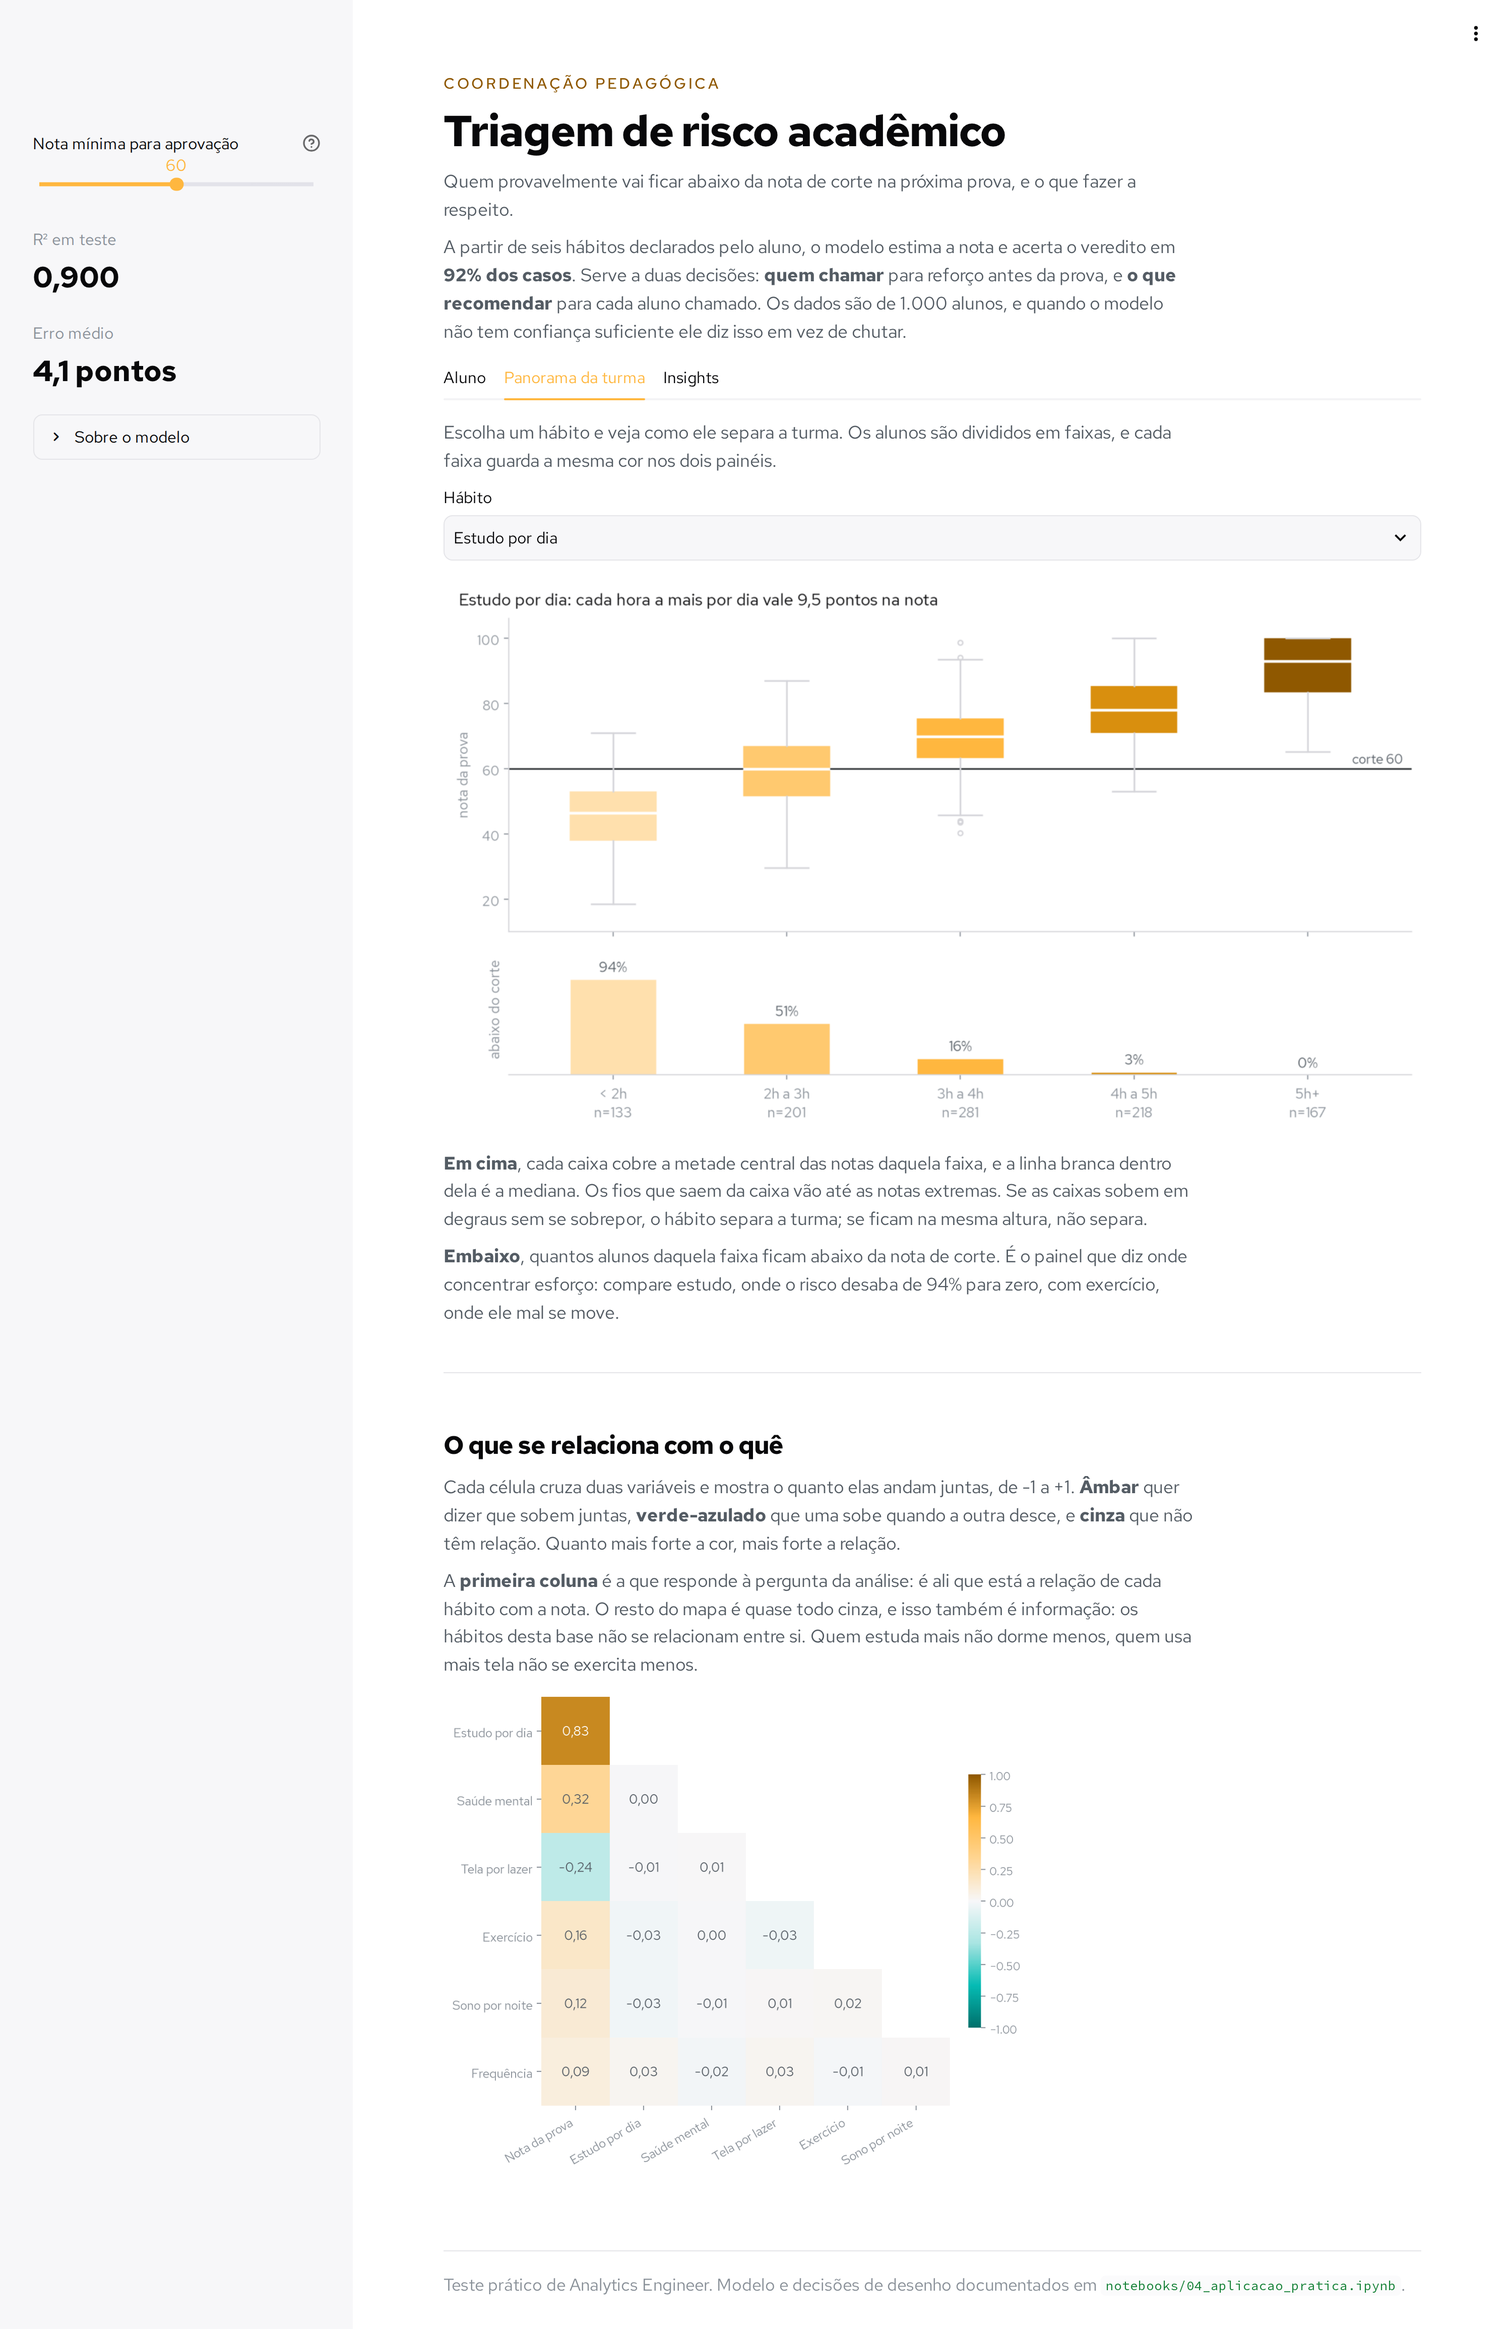
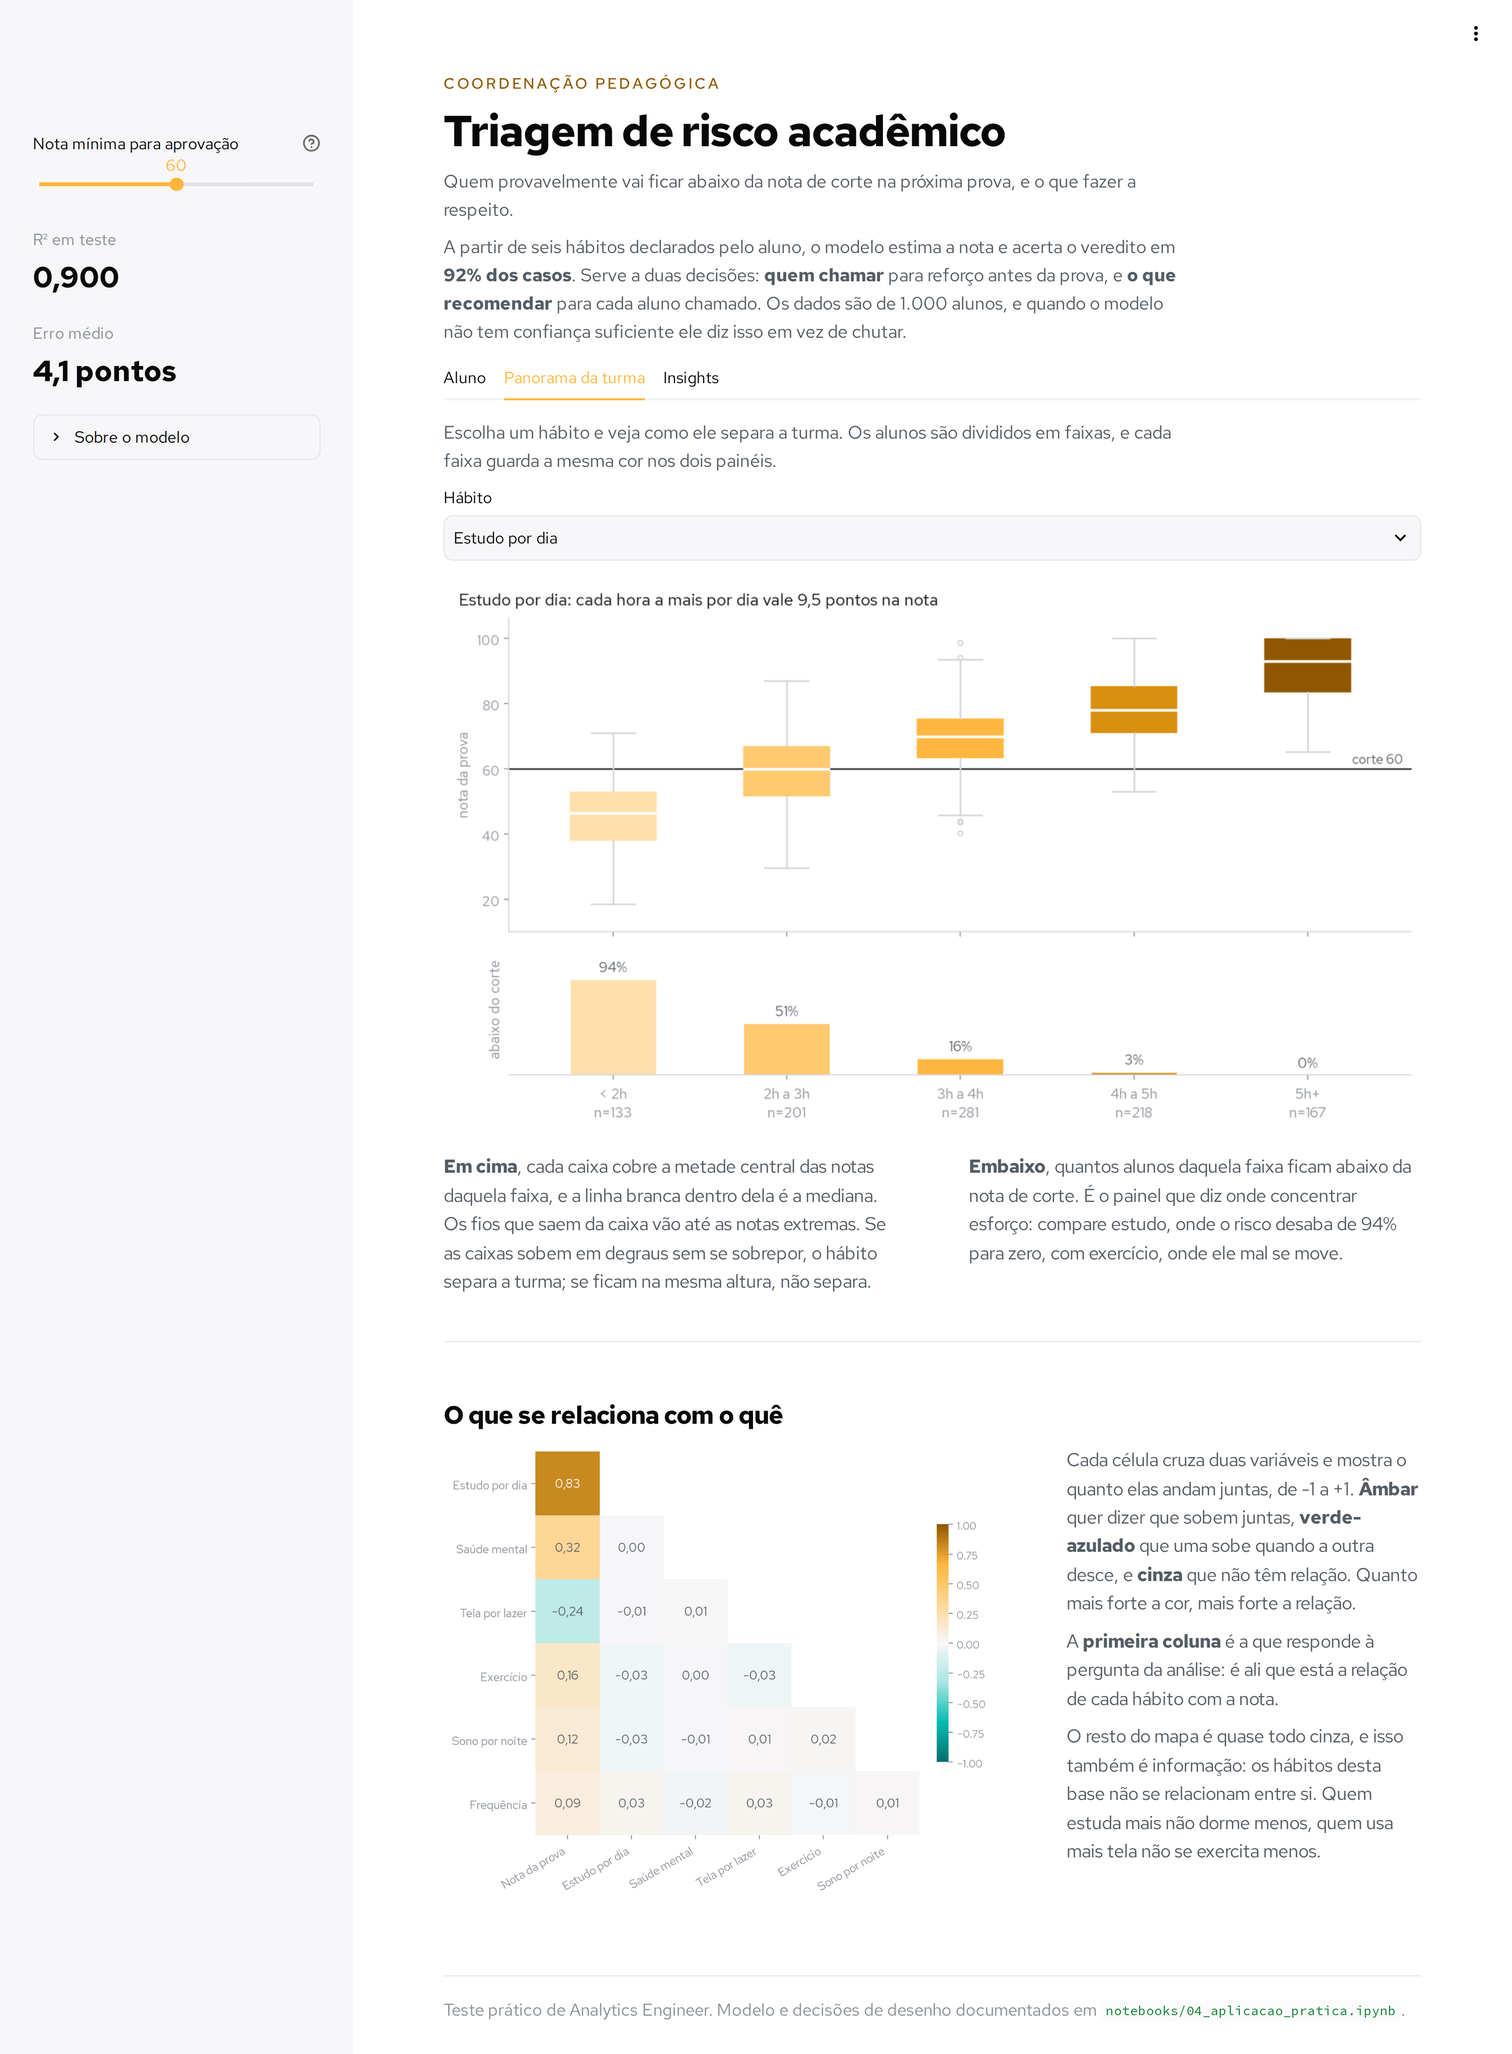
Alinha as legendas dos gráficos à largura da figura
O texto explicativo estava limitado a 62 caracteres de largura, herdado da
classe usada em texto corrido, enquanto os gráficos ocupavam a página
inteira. O resultado era um bloco encostado à esquerda com um vão à direita.

As legendas passam a usar uma classe própria, sem limite de medida, e as
que têm dois parágrafos vão em duas colunas: assim preenchem a mesma
largura da figura sem esticar a linha além do que é confortável de ler.

A legenda do mapa de calor foi para o lado dele, ocupando o espaço que já
sobrava, já que o mapa não estica até a página inteira de propósito.

diff --git a/app.py b/app.py
@@ -548,6 +548,13 @@ st.markdown(
       .linhafina {{ color: {COR["tinta_2"]}; font-size: 1.06rem; max-width: 62ch;
         margin: 0 0 .5rem 0; line-height: 1.55; }}
 
+      /* Legenda de gráfico não leva o limite de medida da linhafina: ela
+         acompanha a largura da figura, senão sobra um vão à direita. As mais
+         longas vão em duas colunas, para o texto continuar legível. */
+      .legenda {{ color: {COR["tinta_2"]}; font-size: 1.02rem; line-height: 1.55;
+        margin: .2rem 0 .4rem 0; }}
+      .legenda p {{ margin: 0 0 .5rem 0; }}
+
       /* Hábitos como lista de definição, e não como caixas de dashboard. */
       .habitos {{ display: grid; grid-template-columns: repeat(3, 1fr);
         gap: 1.6rem 2.6rem; margin: .6rem 0 .2rem 0; }}
@@ -704,22 +711,30 @@ def painel(habitos, nota_real=None):
             width="stretch",
         )
         st.markdown(
-            '<p class="linhafina" style="font-size:.97rem;">Cada barra cinza é um '
-            "grupo de alunos da base com aquela nota. A <strong>linha colorida</strong> "
-            "marca a previsão deste aluno e a <strong>faixa em volta</strong> é a "
-            "margem de erro do modelo, de ±%s pontos. A linha escura é o corte.</p>"
+            '<div class="legenda"><p>Cada barra cinza é um grupo de alunos da base '
+            "com aquela nota. A <strong>linha colorida</strong> marca a previsão "
+            "deste aluno e a <strong>faixa em volta</strong> é a margem de erro do "
+            "modelo, de ±%s pontos. A linha escura é o corte.</p></div>"
             % num(desvio),
             unsafe_allow_html=True,
         )
 
     st.markdown('<div class="secao">O que mudar primeiro</div>', unsafe_allow_html=True)
-    st.markdown(
-        '<p class="linhafina">Cada barra responde: <em>se só este hábito mudasse, '
-        "e todo o resto ficasse igual, quantos pontos a nota prevista subiria?</em> "
-        "A barra em âmbar é a mudança que rende mais. Mudanças que passariam do "
-        "máximo observado na base ficam de fora, para não sugerir o impossível.</p>",
-        unsafe_allow_html=True,
-    )
+    esq, dir_ = st.columns(2, gap="large")
+    with esq:
+        st.markdown(
+            '<div class="legenda"><p>Cada barra responde: <em>se só este hábito '
+            "mudasse, e todo o resto ficasse igual, quantos pontos a nota prevista "
+            "subiria?</em></p></div>",
+            unsafe_allow_html=True,
+        )
+    with dir_:
+        st.markdown(
+            '<div class="legenda"><p>A barra em âmbar é a mudança que rende mais. '
+            "Mudanças que passariam do máximo observado na base ficam de fora, para "
+            "não sugerir o impossível.</p></div>",
+            unsafe_allow_html=True,
+        )
 
     ganhos = calcular_alavancas(modelo, habitos, LIMITES)
     if ganhos.empty:
@@ -789,55 +804,70 @@ with aba_turma:
                           format_func=lambda c: ROTULOS[c][0])
     st.pyplot(grafico_habito(base, habito, corte), width="stretch")
 
-    st.markdown(
-        '<p class="linhafina"><strong>Em cima</strong>, cada caixa cobre a metade '
-        "central das notas daquela faixa, e a linha branca dentro dela é a mediana. "
-        "Os fios que saem da caixa vão até as notas extremas. Se as caixas sobem em "
-        "degraus sem se sobrepor, o hábito separa a turma; se ficam na mesma altura, "
-        "não separa.</p>"
-        '<p class="linhafina"><strong>Embaixo</strong>, quantos alunos daquela faixa '
-        "ficam abaixo da nota de corte. É o painel que diz onde concentrar esforço: "
-        "compare estudo, onde o risco desaba de 94% para zero, com exercício, onde "
-        "ele mal se move.</p>",
-        unsafe_allow_html=True,
-    )
+    esq, dir_ = st.columns(2, gap="large")
+    with esq:
+        st.markdown(
+            '<div class="legenda"><p><strong>Em cima</strong>, cada caixa cobre a '
+            "metade central das notas daquela faixa, e a linha branca dentro dela é "
+            "a mediana. Os fios que saem da caixa vão até as notas extremas. Se as "
+            "caixas sobem em degraus sem se sobrepor, o hábito separa a turma; se "
+            "ficam na mesma altura, não separa.</p></div>",
+            unsafe_allow_html=True,
+        )
+    with dir_:
+        st.markdown(
+            '<div class="legenda"><p><strong>Embaixo</strong>, quantos alunos daquela '
+            "faixa ficam abaixo da nota de corte. É o painel que diz onde concentrar "
+            "esforço: compare estudo, onde o risco desaba de 94% para zero, com "
+            "exercício, onde ele mal se move.</p></div>",
+            unsafe_allow_html=True,
+        )
 
     st.divider()
     st.markdown('<div class="secao">O que se relaciona com o quê</div>',
                 unsafe_allow_html=True)
-    st.markdown(
-        '<p class="linhafina">Cada célula cruza duas variáveis e mostra o quanto elas '
-        "andam juntas, de -1 a +1. <strong>Âmbar</strong> quer dizer que sobem juntas, "
-        "<strong>verde-azulado</strong> que uma sobe quando a outra desce, e "
-        "<strong>cinza</strong> que não têm relação. Quanto mais forte a cor, mais "
-        "forte a relação.</p>"
-        '<p class="linhafina">A <strong>primeira coluna</strong> é a que responde à '
-        "pergunta da análise: é ali que está a relação de cada hábito com a nota. "
-        "O resto do mapa é quase todo cinza, e isso também é informação: os hábitos "
-        "desta base não se relacionam entre si. Quem estuda mais não dorme menos, "
-        "quem usa mais tela não se exercita menos.</p>",
-        unsafe_allow_html=True,
-    )
-    # Coluna mais estreita que a página: esticado, o mapa vira um tabuleiro de
-    # células enormes sem ganhar nenhuma legibilidade.
-    col_mapa, _ = st.columns([1.55, 1])
+    # O mapa não estica até a página inteira, senão vira um tabuleiro de células
+    # enormes sem ganhar legibilidade. A legenda ocupa o espaço que sobra ao lado.
+    col_mapa, col_texto = st.columns([1.5, 1], gap="large")
     with col_mapa:
         st.pyplot(grafico_correlacao(base), width="stretch")
+    with col_texto:
+        st.markdown(
+            '<div class="legenda"><p>Cada célula cruza duas variáveis e mostra o '
+            "quanto elas andam juntas, de -1 a +1. <strong>Âmbar</strong> quer dizer "
+            "que sobem juntas, <strong>verde-azulado</strong> que uma sobe quando a "
+            "outra desce, e <strong>cinza</strong> que não têm relação. Quanto mais "
+            "forte a cor, mais forte a relação.</p>"
+            "<p>A <strong>primeira coluna</strong> é a que responde à pergunta da "
+            "análise: é ali que está a relação de cada hábito com a nota.</p>"
+            "<p>O resto do mapa é quase todo cinza, e isso também é informação: os "
+            "hábitos desta base não se relacionam entre si. Quem estuda mais não "
+            "dorme menos, quem usa mais tela não se exercita menos.</p></div>",
+            unsafe_allow_html=True,
+        )
 
 
 with aba_insights:
     st.markdown('<div class="secao">Quanto vale cada hábito</div>',
                 unsafe_allow_html=True)
-    st.markdown(
-        '<p class="linhafina">Os hábitos são medidos em unidades diferentes: horas, '
-        "dias por semana, uma escala de 1 a 10. Comparar 1 hora com 1 ponto de escala "
-        "não diria nada, então cada um aparece aqui pelo quanto vale uma mudança "
-        "<strong>típica</strong> dele, do tamanho da variação que existe na turma.</p>"
-        '<p class="linhafina">Assim as barras ficam comparáveis: horas de estudo vale '
-        "quase três vezes saúde mental, que por sua vez vale mais que o resto junto. "
-        "<strong>Âmbar sobe a nota, verde-azulado derruba.</strong></p>",
-        unsafe_allow_html=True,
-    )
+    esq, dir_ = st.columns(2, gap="large")
+    with esq:
+        st.markdown(
+            '<div class="legenda"><p>Os hábitos são medidos em unidades diferentes: '
+            "horas, dias por semana, uma escala de 1 a 10. Comparar 1 hora com 1 "
+            "ponto de escala não diria nada, então cada um aparece aqui pelo quanto "
+            "vale uma mudança <strong>típica</strong> dele, do tamanho da variação "
+            "que existe na turma.</p></div>",
+            unsafe_allow_html=True,
+        )
+    with dir_:
+        st.markdown(
+            '<div class="legenda"><p>Assim as barras ficam comparáveis: horas de '
+            "estudo vale quase três vezes saúde mental, que por sua vez vale mais que "
+            "o resto junto. <strong>Âmbar sobe a nota, verde-azulado derruba.</strong>"
+            "</p></div>",
+            unsafe_allow_html=True,
+        )
     st.pyplot(grafico_impacto(base, modelo), width="stretch")
 
     st.divider()
@@ -855,16 +885,22 @@ with aba_insights:
                            format_func=lambda c: GRUPOS[c])
     st.pyplot(grafico_grupos(base, recorte), width="stretch")
 
-    st.markdown(
-        '<p class="linhafina">Cada <strong>ponto</strong> é a nota média de um grupo, '
-        "e a <strong>barra em volta</strong> é a incerteza dessa média: grupo pequeno "
-        "tem barra larga. Quando as barras de dois grupos se sobrepõem, não dá para "
-        "afirmar que um vai melhor que o outro.</p>"
-        '<p class="linhafina">A <strong>faixa em âmbar</strong> é a régua. Ela tem '
-        "meio desvio-padrão da nota, que é o mínimo para uma diferença valer alguma "
-        "ação. Ponto que não sai dela é ruído com cara de achado.</p>",
-        unsafe_allow_html=True,
-    )
+    esq, dir_ = st.columns(2, gap="large")
+    with esq:
+        st.markdown(
+            '<div class="legenda"><p>Cada <strong>ponto</strong> é a nota média de um '
+            "grupo, e a <strong>barra em volta</strong> é a incerteza dessa média: "
+            "grupo pequeno tem barra larga. Quando as barras de dois grupos se "
+            "sobrepõem, não dá para afirmar que um vai melhor que o outro.</p></div>",
+            unsafe_allow_html=True,
+        )
+    with dir_:
+        st.markdown(
+            '<div class="legenda"><p>A <strong>faixa em âmbar</strong> é a régua. Ela '
+            "tem meio desvio-padrão da nota, que é o mínimo para uma diferença valer "
+            "alguma ação. Ponto que não sai dela é ruído com cara de achado.</p></div>",
+            unsafe_allow_html=True,
+        )
 
     st.markdown(
         '<p class="linhafina">Nenhum recorte demográfico separa as notas: todas as '

diff --git a/README.md b/README.md
@@ -1,16 +1,12 @@
 # Hábitos e desempenho estudantil
 
-**[Abrir o app](https://data-analysis-007.streamlit.app/)** · Teste prático de Analytics Engineer (estágio)
+Uma [base](data/raw/habitos_e_desempenho_estudantil.csv) de 1.000 alunos relaciona hábitos de estudo, sono, tela, exercício e saúde mental com a nota de prova. Este repositório descreve essa base, mede o que de fato explica a nota, e termina numa ferramenta que a coordenação pedagógica pode usar: dado um aluno, ela diz se ele está em rota de reprovação e qual mudança de hábito renderia mais pontos.
 
-Uma base de 1.000 alunos relaciona hábitos de estudo, sono, tela, exercício e saúde mental com a nota de prova. Este repositório descreve essa base, mede o que de fato explica a nota, e termina numa ferramenta que a coordenação pedagógica pode usar: dado um aluno, ela diz se ele está em rota de reprovação e qual mudança de hábito renderia mais pontos.
+<div align="center">
 
-O caminho até lá encontrou três coisas que mudaram a análise pelo meio.
+**[Abrir o site](https://data-analysis-007.streamlit.app/)** · Triagem de risco acadêmico
 
-**A leitura padrão do arquivo inventa dados.** `pd.read_csv()` sem parâmetro converte a string `"None"` em `NaN`, e com isso fabrica 91 valores ausentes que o CSV não tem. O erro não aparece em nenhuma verificação posterior, porque o `isna()` concorda com ele.
-
-**Quase toda variável derivada piora o resultado.** Testei sete combinações que pareciam inteligentes (horas produtivas, razão estudo sobre lazer, índice geral de hábitos) contra as colunas que as originaram. Seis perderam. Só uma sobreviveu.
-
-**A correlação simples engana sobre o que importa.** Horas de estudo ocupa 68% da variação da nota, o que faz todo o resto parecer irrelevante. Entre alunos que estudam a mesma quantidade, saúde mental e tempo de tela são o que separa o resultado, e são justamente os hábitos em que uma escola consegue agir.
+</div>
 
 ![Triagem de risco acadêmico](assets/img/app.png)
 
@@ -18,7 +14,7 @@ O caminho até lá encontrou três coisas que mudaram a análise pelo meio.
 
 ## Como rodar
 
-O Python do sistema costuma recusar instalação de pacote (PEP 668), então o ambiente virtual não é preferência, é requisito.
+Para isolar as dependências e garantir que o projeto rode em qualquer ambiente, utilize um ambiente virtual (`venv`).
 
 ### O app
 
@@ -36,9 +32,11 @@ pip install -r requirements-notebooks.txt
 jupyter lab
 ```
 
-Eles estão salvos **com as saídas**, então dá para ler tudo direto no GitHub sem rodar nada.
+**Nota*:* Eles estão salvos **com as saídas**, então dá para ler tudo direto no GitHub sem rodar nada.
 
 ### A verificação
+
+Para validar a execução dos notebooks foram desenvolvidos alguns testes simples que podem ser executados via linha de comando:
 
 ```bash
 python tests/teste_notebooks.py
